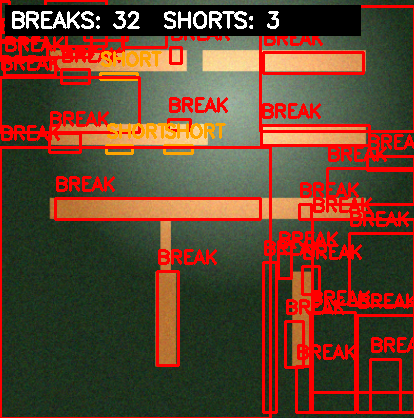
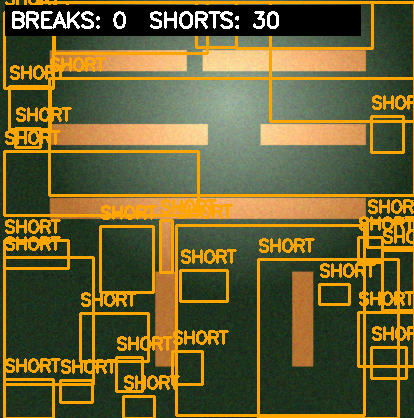
feat: v2: inverted & noisy result. Adaptive thresholding is flipping copper and background

diff --git a/detect.py b/detect.py
@@ -1,4 +1,3 @@
-import os
 import sys
 
 import cv2
@@ -12,9 +11,9 @@ import numpy as np
 # ─────────────────────────────────────────────
 
 
-def preprocess(img):
+def preprocess_camera(img):
     """
-    Clean up a raw camera image:
+    Clean up the raw camera image:
     1. Grayscale
     2. Gaussian blur  → kills sensor noise
     3. CLAHE          → evens out glare / uneven lighting
@@ -22,12 +21,9 @@ def preprocess(img):
     5. Morphological open/close → remove leftover speckle
     """
     gray = cv2.cvtColor(img, cv2.COLOR_BGR2GRAY)
-
     blurred = cv2.GaussianBlur(gray, (5, 5), 0)
-
     clahe = cv2.createCLAHE(clipLimit=2.0, tileGridSize=(8, 8))
     equalized = clahe.apply(blurred)
-
     binary = cv2.adaptiveThreshold(
         equalized,
         255,
@@ -36,59 +32,24 @@ def preprocess(img):
         blockSize=11,
         C=2,
     )
-
     kernel = np.ones((3, 3), np.uint8)
     cleaned = cv2.morphologyEx(binary, cv2.MORPH_OPEN, kernel)
     cleaned = cv2.morphologyEx(cleaned, cv2.MORPH_CLOSE, kernel)
-
     return cleaned
 
 
-def align(camera_binary, ground_truth_binary):
+def preprocess_groundtruth(img):
     """
-    Align the camera image to the ground truth using
-    ORB feature matching + homography (RANSAC).
-    Falls back to returning the original if alignment fails.
+    Ground truth is already clean black & white —
+    just convert to grayscale and threshold cleanly.
+    No need for CLAHE or heavy noise removal.
     """
-    orb = cv2.ORB_create(nfeatures=1000)
-
-    kp1, des1 = orb.detectAndCompute(camera_binary, None)
-    kp2, des2 = orb.detectAndCompute(ground_truth_binary, None)
-
-    if des1 is None or des2 is None or len(kp1) < 4 or len(kp2) < 4:
-        print("[WARN] Not enough features for alignment, skipping warp.")
-        return camera_binary
-
-    matcher = cv2.BFMatcher(cv2.NORM_HAMMING, crossCheck=True)
-    matches = matcher.match(des1, des2)
-    matches = sorted(matches, key=lambda x: x.distance)
-
-    if len(matches) < 4:
-        print("[WARN] Not enough matches for homography, skipping warp.")
-        return camera_binary
-
-    # Use top matches
-    good = matches[:50]
-    src_pts = np.float32([kp1[m.queryIdx].pt for m in good]).reshape(-1, 1, 2)
-    dst_pts = np.float32([kp2[m.trainIdx].pt for m in good]).reshape(-1, 1, 2)
-
-    H, mask = cv2.findHomography(src_pts, dst_pts, cv2.RANSAC, 5.0)
-
-    if H is None:
-        print("[WARN] Homography failed, skipping warp.")
-        return camera_binary
-
-    h, w = ground_truth_binary.shape
-    aligned = cv2.warpPerspective(camera_binary, H, (w, h))
-    return aligned
+    gray = cv2.cvtColor(img, cv2.COLOR_BGR2GRAY)
+    _, binary = cv2.threshold(gray, 127, 255, cv2.THRESH_BINARY)
+    return binary
 
 
 def detect_faults(camera_path, ground_truth_path, output_path="output.png"):
-    """
-    Main detection function.
-    Loads both images, preprocesses, aligns, diffs, and
-    draws labelled bounding boxes for each defect found.
-    """
     cam_img = cv2.imread(camera_path)
     gt_img = cv2.imread(ground_truth_path)
 
@@ -99,23 +60,37 @@ def detect_faults(camera_path, ground_truth_path, output_path="output.png"):
         print(f"[ERROR] Could not load ground truth image: {ground_truth_path}")
         sys.exit(1)
 
-    # Resize ground truth to match camera image size if needed
-    if cam_img.shape != gt_img.shape:
-        gt_img = cv2.resize(gt_img, (cam_img.shape[1], cam_img.shape[0]))
-
     print("[1/5] Preprocessing camera image...")
-    cam_binary = preprocess(cam_img)
+    cam_binary = preprocess_camera(cam_img)
 
     print("[2/5] Preprocessing ground truth...")
-    gt_binary = preprocess(gt_img)
+    gt_binary = preprocess_groundtruth(gt_img)
 
-    print("[3/5] Aligning images...")
-    aligned_cam = align(cam_binary, gt_binary)
+    # Resize to match if needed
+    if cam_binary.shape != gt_binary.shape:
+        gt_binary = cv2.resize(
+            gt_binary,
+            (cam_binary.shape[1], cam_binary.shape[0]),
+            interpolation=cv2.INTER_NEAREST,
+        )
+
+    print("[3/5] Aligning via translation correction...")
+    # Use phase correlation to find any minor shift between images
+    shift, _ = cv2.phaseCorrelate(np.float32(cam_binary), np.float32(gt_binary))
+    dx, dy = int(round(shift[0])), int(round(shift[1]))
+    # Only apply if shift is small (within 20px) — avoids bad corrections
+    if abs(dx) <= 20 and abs(dy) <= 20:
+        M = np.float32([[1, 0, dx], [0, 1, dy]])
+        h, w = cam_binary.shape
+        cam_binary = cv2.warpAffine(cam_binary, M, (w, h))
+        print(f"    Shift corrected: dx={dx}, dy={dy}")
+    else:
+        print(f"    Shift too large ({dx},{dy}), skipping correction.")
 
     print("[4/5] Computing difference map...")
-    diff = cv2.bitwise_xor(aligned_cam, gt_binary)
+    diff = cv2.bitwise_xor(cam_binary, gt_binary)
 
-    # Remove tiny noise regions (anything smaller than 100px area)
+    # Clean up tiny noise regions in the diff
     kernel = np.ones((5, 5), np.uint8)
     diff = cv2.morphologyEx(diff, cv2.MORPH_OPEN, kernel)
 
@@ -124,14 +99,17 @@ def detect_faults(camera_path, ground_truth_path, output_path="output.png"):
         diff, connectivity=8
     )
 
-    # Draw results on a copy of the camera image
     result_img = cam_img.copy()
+    # Resize result to match cam if needed
+    if result_img.shape[:2] != (cam_binary.shape[0], cam_binary.shape[1]):
+        result_img = cv2.resize(result_img, (cam_binary.shape[1], cam_binary.shape[0]))
 
     defect_count = {"BREAK": 0, "SHORT": 0}
+    MIN_AREA = 300  # ignore regions smaller than this (px)
 
-    for i in range(1, num_labels):  # skip label 0 (background)
+    for i in range(1, num_labels):
         area = stats[i, cv2.CC_STAT_AREA]
-        if area < 100:  # ignore tiny artifacts
+        if area < MIN_AREA:
             continue
 
         x = stats[i, cv2.CC_STAT_LEFT]
@@ -139,26 +117,23 @@ def detect_faults(camera_path, ground_truth_path, output_path="output.png"):
         w = stats[i, cv2.CC_STAT_WIDTH]
         h = stats[i, cv2.CC_STAT_HEIGHT]
 
-        # Sample the ground truth in this region to classify
+        # Check what ground truth says about this region
         region_gt = gt_binary[y : y + h, x : x + w]
         white_ratio = np.sum(region_gt == 255) / region_gt.size
 
         if white_ratio > 0.3:
-            # Ground truth says copper should be here but camera doesn't have it
             label = "BREAK"
             color = (0, 0, 255)  # Red
         else:
-            # Ground truth says background but camera shows copper
             label = "SHORT"
             color = (0, 165, 255)  # Orange
 
         defect_count[label] += 1
         cv2.rectangle(result_img, (x, y), (x + w, y + h), color, 2)
         cv2.putText(
-            result_img, label, (x, y - 8), cv2.FONT_HERSHEY_SIMPLEX, 0.6, color, 2
+            result_img, label, (x, y - 8), cv2.FONT_HERSHEY_SIMPLEX, 0.55, color, 2
         )
 
-    # Summary box in top-left
     summary = f"BREAKS: {defect_count['BREAK']}  SHORTS: {defect_count['SHORT']}"
     cv2.rectangle(result_img, (5, 5), (360, 35), (0, 0, 0), -1)
     cv2.putText(
@@ -171,7 +146,6 @@ def detect_faults(camera_path, ground_truth_path, output_path="output.png"):
     )
     print(f"Output saved to: {output_path}")
 
-    # Also save the diff map for inspection
     diff_path = output_path.replace(".png", "_diffmap.png")
     cv2.imwrite(diff_path, diff)
     print(f"Diff map saved to: {diff_path}")